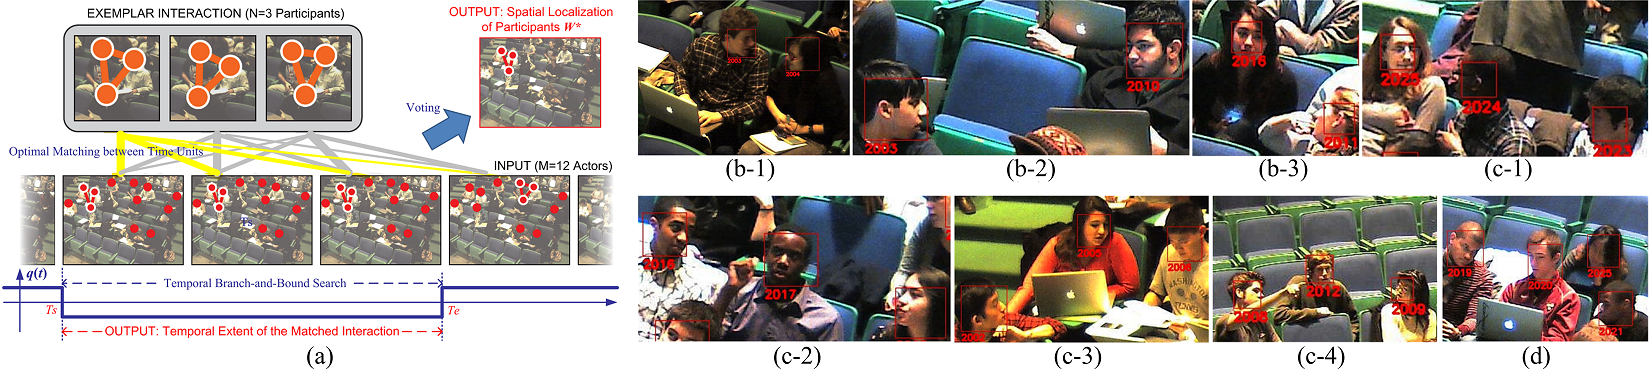
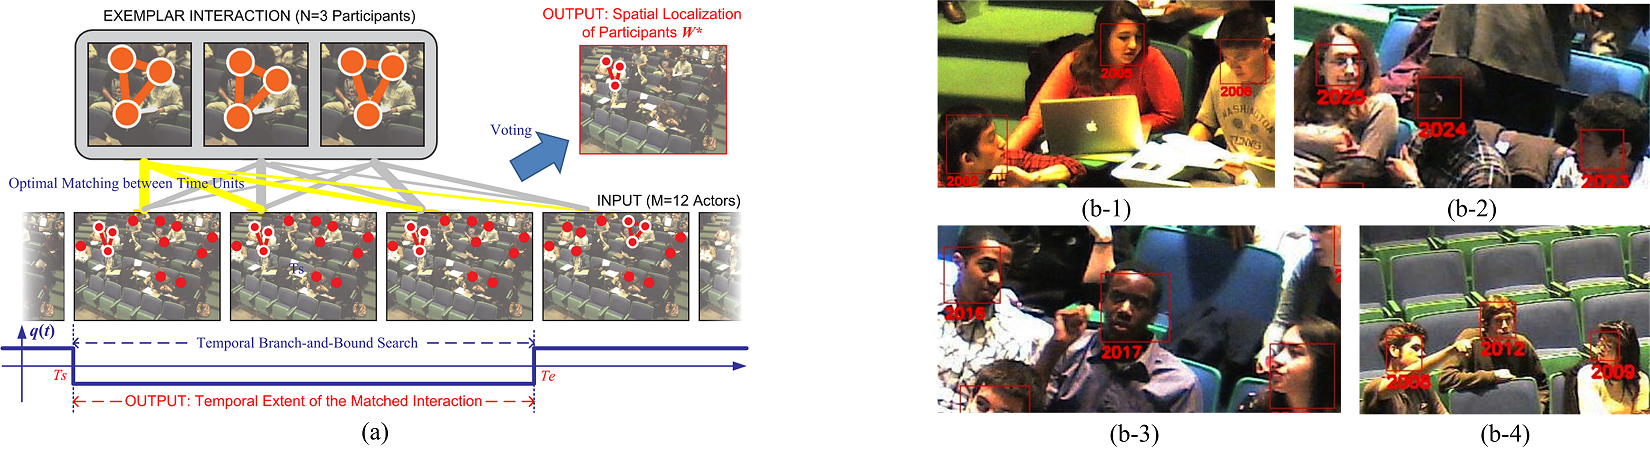
0.5 page left

diff --git a/problem2.tex b/problem2.tex
@@ -12,17 +12,16 @@ We approach detection and recognition as a matching problem, depicted in the lef
 \includegraphics[width=\columnwidth]{diagram_dataset}
 \end{center}
 \vspace{-0.25in} \caption{\captionsize 
-Preliminary results of using the proposed representation in a detection+recognition system based on matching (a).(b-1)-(b-3): Examples of the three categories for two-person interactions; (c-1)-(c-4): Examples of the four categories for three-person interactions; (d) Example of the four-person interaction.\todd{Change this figure to show two rows of detection results (for 3-person interactions) on the right.} \label{fig:diagram_dataset}\afterfigspace}
+(a): Preliminary method of using the proposed representation in a detection+recognition system based on matching. (b-1)-(b-4): Examples of the four categories for three-person interactions.}\label{fig:diagram_dataset}\afterfigspace
 \end{figure}
 
-To deal with these various sources of noise and outliers, we propose an approach based on voting. Each frame of the exemplar is separately compared to each frame of the long input video, and for each comparison we find the optimal partial matching between the $N$ exemplar participants and the $M>N$ input tracks. Each frame-wise partial match is represented by an $N\times M$ binary matrix $W$ that has at most one non-zero entry in each row and column. Because our descriptor-ensembles include only unitary and pairwise descriptors, each partial match can be found efficiently using a convex quadratic program derived from the problem\todd{can we put a citation here relating this to some existing graph or shape matching}
+To deal with these various sources of noise and outliers, we propose an approach based on voting. Each frame of the exemplar is separately compared to each frame of the long input video, and for each comparison we find the optimal partial matching between the $N$ exemplar participants and the $M>N$ input tracks. Each frame-wise partial match is represented by an $N\times M$ binary matrix $W$ that has at most one non-zero entry in each row and column. Because our descriptor-ensembles include only unitary and pairwise descriptors, each partial match can be found efficiently using a quadratic program similar to the one used in shape matching \cite{Berg05shapematching}
 \begin{equation}\label{eq:partial-matching}
 \text{arg}\!\!\!\!\!\min_{W=\{w_{nm}\}} \sum_{nm}w_{nm}d_{I}(\mathbf{f}_{m}, \mathbf{f}_{n})+\!\!\!\sum_{nmn'm'}\!\!\!w_{nm}w_{n'm'}d_{P}(\mathbf{g}_{m,m'}, \mathbf{g}_{n,n'}),
 \end{equation}
 where $\{f_{n},g_{n,n'}\}$ is the collection of $N$ individual and $N\times (N-1)$ pairwise descriptors from one exemplar frame and $\{f_{m},g_{m,m'}\}$ are the $M$ and $M\times (M-1)$ individual and pairwise descriptors from one  frame of the input. We can explore many different ``atomic'' distances for comparing individual and pairwise descriptors, and so far we have experimented with one flexible and convenient choice based on Mahalanobis distance: $d_{I}(\mathbf{f}, \mathbf{f}')=(\mathbf{f}-\mathbf{f}')^{T}\Sigma_{I}(\mathbf{f}-\mathbf{f}')$ and $d_{P}(\mathbf{g}, \mathbf{g}')=(\mathbf{g}-\mathbf{g}')^{T}\Sigma_{P}(\mathbf{g}-\mathbf{g}')$ defined by data-optimized positive semi-definite matrices $\Sigma_{I}$ and $\Sigma_{P}$.
 
-Having computed all per-frame partial matches, we make a robust decision about the locations of the $N$ best-matching participants in the input video by accumulating weighted votes from these frame-wise matches, with each frame-wise match casting a vote in the discrete space of all possible $N\times M$ binary matching matrices. Then, once the best-matching $N$ participants have been identified, we have found that the temporal extent of their detected interaction can be found efficiently through a suitably-defined branch-and-bound temporal search inspired by techniques used in sliding-window-based object detection~\cite{}\todd{add citation from CVPR paper}.
-
+Having computed all per-frame partial matches, we make a robust decision about the locations of the $N$ best-matching participants in the input video by accumulating weighted votes from these frame-wise matches, with each frame-wise match casting a vote in the discrete space of all possible $N\times M$ binary matching matrices. Once the best-matching $N$ participants have been identified, we have found that the temporal extent of the interaction can be found efficiently through a suitably-defined branch-and-bound temporal search inspired by techniques used in object detection~\cite{Lampert}.
 %\todd{Working here}. To formally describe task consider the fact that if one of the $M$ targets is regarded as a participant in an interaction as exemplified by the exemplar $\mathcal{D}$, its behavior should properly match to the behavior of one of the $N$ individuals in the exemplar $\mathcal{D}$. Therefore, we use a $N\times M$ binary matrix $W=[w_{nm}]\in\{0,1\}^{N\times M}$ to formally represent the participant identification, where $w_{nm}=1$ means that the $n$th exemplar individual is matched to the $m$th input target and $w_{nm}=0$ means unmatched targets. For unambiguous matching, we expect each individual in the exemplar to find its unique partner target in the input. This implies that $\sum_{m}w_{nm}=1, \forall n$ and $\sum_{n}w_{nm}\leq 1, \forall m$, \textit{i.e.}, $W\mathbf{1}=\mathbf{1}$ and $\mathbf{1}^{T}W\leq\mathbf{1}^{T}$. Denote $\mathcal{W}\triangleq\{W\in\{0,1\}^{N\times M}| W\mathbf{1}=\mathbf{1}, \mathbf{1}^{T}W\leq\mathbf{1}^{T}\}$, and our former task is essentially to find $W^{*}\in\mathcal{W}$, which encodes the best matching between the input $\mathcal{Q}$ and the exemplar $\mathcal{D}$. To formally describe task 2) is straightforward: We simply look for the starting time $T_{s}$ and ending time $T_{e}$, $1\le T_{s}<T_{e}\le T$, such that the interactive pattern of input $\mathcal{Q}$ during $[T_{s}, T_{e}]$ demonstrates the best similarity with the exemplar $\mathcal{D}$.
 
 
@@ -47,7 +46,7 @@ We have evaluated this approach using a subset of the Harvard Interactive Classr
 \vspace{-3.9mm}
 \includegraphics[width=2.4in]{ROC_s}
 \end{wrapfigure}
- of 112 distinct three-person discussions, and we separated these into four semantically-meaningful categories (e.g., three sitting in a row with two facing left vs. two in front and one behind). The annotated interactions range from a few seconds to tens of seconds in length, and detecting and recognizing them is a challenge because the number of by-standers is much larger than the number of participants ($M$ is between 10 and 20 while $N=3$), video quality is limited (low light, less than 15fps), and the visual cues for interaction are quite subtle. Detection results obtained using a leave-one-session-out evaluation scheme are shown in the ROC curves at right, with various parts of the system being isolated, leaving only individual $\mathbf{f}$ or pairwise $\mathbf{g}$ descriptors, and atomic distance matrices $\Sigma_{I}$, $\Sigma_{P}$ set to identity instead of being data-optimized as will be described in Section~\ref{sec:actlearn}. These results suggest that our preliminary system approach works well, and its performance and flexibility are further supported by tests showing that it provides state-of-the-art detection and recognition results on existing interaction datasets involving both humans~\cite{UTdata} and mice~\cite{}\todd{add caltech mice citation here; should we add 1-2 performance numbers to this sentence to make it more convincing?}.
+ of 112 distinct three-person discussions, and we separated these into four semantically-meaningful categories (e.g., three sitting in a row with two facing left vs. two in front and one behind). The annotated interactions range from a few seconds to tens of seconds in length, and detecting and recognizing them is a challenge because the number of by-standers is much larger than the number of participants ($M$ is between 10 and 20 while $N=3$), video quality is limited (low light, less than 15fps), and the visual cues for interaction are quite subtle. Detection results obtained using a leave-one-session-out evaluation scheme are shown in the ROC curves at right, with various parts of the system being isolated, leaving only individual $\mathbf{f}$ or pairwise $\mathbf{g}$ descriptors, and atomic distance matrices $\Sigma_{I}$, $\Sigma_{P}$ set to identity instead of being data-optimized as will be described in Section~\ref{sec:actlearn}. These results suggest that our preliminary system approach works well, and its performance and flexibility are further supported by tests showing that it provides state-of-the-art detection and recognition results on existing interaction datasets involving both humans~\cite{UTdata} and mice~\cite{CRIM13}, exceeding the accuracy in~\cite{UTdata} by 21\% and exceeding the accuracy in \cite{CRIM13} by 8\%.
  
 While these early results are promising, they are only a small indication of what might be achieved. As part of the proposed activity, we will explore more sophisticated descriptor ensembles that allow, for example, larger cliques of relative descriptors and descriptors that are relative to the entire group. We will also explore measures of similarity that, instead of detection and recognition by matching, are well-suited for computing interaction saliency (i.e., interactions that are distinct from their space-time neighborhood) and for semi-supervised and unsupervised learning of categories (e.g., to automatically cluster the salient interactions discovered in a video collection).
 

diff --git a/relatedwork.tex b/relatedwork.tex
@@ -20,12 +20,12 @@ We will build on computer vision, sociology, and social network analysis. This s
 
 \boldstart{Existing tools from sociology and network analysis}
 
-\emph{1) Qualitative and quantitative sociology}. Despite of the lack of automation, sociology has been under investigations for decades \cite{Darwin,Thomkins,Goffman,Kendon1990,Ekman,Hoyle,Tannen}. Interactions and relations among socialized individuals can be studied qualitatively or quantitatively \cite{Goodwin2000,Goldin,Goodwin2007,Kendon2010}, while contemporary communication and internet enables analytical and statistical approaches that can be applied to new socializing modalities such as emails \cite{Eckmann} and mobile phones calls \cite{Onnela,Eagle}. Communities can be abstracted from various domains including education \cite{Scherr2009}, production \cite{Watts}, transportation \cite{Gonzalez},  as well as politics \cite{Iacus}. All together has shaped the interdisciplinary study on `computational social science' \cite{Lazer2009} and `social signal processing' \cite{Pantic}. These research will benefit socially-aware computer vision by providing socially-meaningful interaction categories to exploit, such as `f-formations' \cite{Kendon1990} which describes the spatial proximity among participants involved in a short-term interaction. Meanwhile, our proposed research on social interaction detection and discovery will allow learning of interaction categories in many new environments and for large group sizes over long periods, which is usually prohibitive for manual work adopted in current sociological studies.
+\emph{1) Qualitative and quantitative sociology}. Despite of the lack of automation, sociology has been under investigations for decades \cite{Darwin,Thomkins,Goffman,Kendon1990,Ekman,Hoyle,Tannen}. Interactions and relations among socialized individuals can be studied qualitatively or quantitatively \cite{Goodwin2000,Goldin,Goodwin2007,Kendon2010}, while contemporary communication and internet enables analytical and statistical approaches that can be applied to new socializing modalities such as emails \cite{Eckmann} and mobile phones calls \cite{Onnela,Eagle}. Communities can be abstracted from various domains including education \cite{Scherr2009}, production \cite{Watts}, transportation \cite{Gonzalez},  as well as politics \cite{Iacus}. All together has shaped the interdisciplinary study on `computational social science' \cite{Lazer2009} and `social signal processing' \cite{Pantic}. These research will benefit socially-aware computer vision by providing socially-meaningful interaction categories to exploit, such as `f-formations' \cite{Kendon1990} which describes the spatial proximity among participants involved in a short-term interaction. Meanwhile, our proposed research on social interaction detection and discovery will allow learning of interaction categories in new environments and for large group sizes over long periods, which is prohibitive for manual work adopted in current sociological studies.
 
 
 %%%%%%%%%%%%%%%%%%%%%%%%%%%%%%%%%%%%%%%%%
 
-\emph{2) Computational network models}. Probabilistic mechanisms for depicting the dynamics of a small-scale group are available in \cite{Basu:meeting,Dong,Brand:CHMM,Choudhury:MHMM,Pan:influence}, and our research also relates to graph cut \cite{Ng:spectral,Boykov:segmentation}, clustering \cite{Filippone:clustering,Xu:clustering}, and graph matching \cite{West:Graph,Caetano:graph}. Statistical network models, as well as a diversity of problems regarding learning and inference on graphs, are particularly useful in modeling a broad body of network phenomena (e.g., message propagation and small-world effect) and solving a diversity of network problems (e.g. link prediction and page recommendation). We refer the reader to \cite{Goldenberg,Kolacyzk,Snijders,Rossi} for comprehensive coverage of representative work on statistical models of networks. In particular, research has considered the `multi-view' network representation, where a view may refer to a type of low-level observation or source that characterizes the affinities between nodes, such as citations between papers or the similarity of the words/topics in two papers \cite{ChangB09,WangMM05}, and a view can also refer to a type of high-level social role or membership \cite{AiroldiBFX08,Kim12}. Missing links or nodes are common for realistic networks as accounted for by network completion \cite{Clauset,Guimera,HannekeX09,KimL11}, and new links will be emerging over time as studied by link prediction \cite{Goldberg,Liben-Nowell,TaskarWAK03}. A visually sensed social network must consider these conditions together and confront new challenges of inferring high-level relational semantics from high-dimensional multi-modal image features and missing/noisy data. These will be our proposed contribution in Section \ref{sec:vis2net}.
+\emph{2) Computational network models}. Probabilistic mechanisms for depicting the dynamics of a small-scale group are available in \cite{Basu:meeting,Dong,Choudhury:MHMM,Pan:influence}, and our research also relates to graph cut \cite{Ng:spectral,Boykov:segmentation}, clustering \cite{Filippone:clustering,Xu:clustering}, and graph matching \cite{West:Graph,Caetano:graph}. Statistical network models, as well as a diversity of problems regarding learning and inference on graphs, are particularly useful in modeling a broad body of network phenomena (e.g., message propagation and small-world effect) and solving a diversity of network problems (e.g. link prediction and page recommendation). We refer the reader to \cite{Goldenberg,Kolacyzk,Snijders,Rossi} for comprehensive coverage of representative work on statistical models of networks. In particular, research has considered the `multi-view' network representation, where a view may refer to a type of low-level observation or source that characterizes the affinities between nodes, such as citations between papers or the similarity of the words/topics in two papers \cite{ChangB09,WangMM05}, and a view can also refer to a type of high-level social role or membership \cite{AiroldiBFX08,Kim12}. Missing links or nodes are common for realistic networks as accounted for by network completion \cite{Clauset,Guimera,HannekeX09,KimL11}, and new links will be emerging over time as studied by link prediction \cite{Goldberg,Liben-Nowell,TaskarWAK03}. A visually sensed social network must consider these conditions together and confront new challenges of inferring high-level relational semantics from high-dimensional multi-modal image features and missing/noisy data. These will be our proposed contribution in Section \ref{sec:vis2net}.
 
 
 %%%%%%%%%%%%%%%%%%%%%%%%%%%%%%%%%%%%%%%%%

diff --git a/problem1.tex b/problem1.tex
@@ -45,9 +45,9 @@ In order to recover social information from image data, we propose a broad set o
 
 At the most basic level, learning and detecting interaction categories requires inventing two things: 1) a computational representation of interactions; and 2) a recipe for measuring the similarity (or distance) between any two interactions. In developing these two, we have four desiderata. First, they must be discriminative, meaning that the similarity between instances from distinct categories is low while that for instances from the same category is high. Second, they must be insensitive to distractors, such as changes in viewpoint, participant identities, the temporal extent of the interaction, and the rate of progression within the interaction. Third, they must be robust and inexpensive so that we can automatically and efficiently process large image collections and long videos of large social gatherings. Fourth and finally, they must be flexible in the sense of being able to automatically exploit the varying levels of interaction information available in different types of input, from low-resolution surveillance video to high-resolution videos captured in small meetings.
 
-These desiderata motivate us to abandon existing approaches based on coupled hidden Markov models (coupled HMMs)~\cite{}\todd{get citations from the ALT proposal}. These approaches are inspired by speech analysis and attempt to model an interaction as an explicit \emph{multi-thread event}~\cite{}\todd{get citations from the ALT proposal} comprised of two or more single-thread events (i.e., two or more temporal sequences of per-person atomic actions) that are interconnected in time. These approaches can theoretically provide very robust detection and recognition of interactions, but they before they can be applied one must optimize for each interaction category both the connectivity of the coupled HMM and its parameters. This is a daunting task that would seem to require hundreds of labeled training samples for each category.
+These desiderata motivate us to abandon existing approaches based on coupled hidden Markov models (coupled HMMs)~\cite{Brand:CHMM}. These approaches are inspired by speech analysis and attempt to model an interaction as an explicit \emph{multi-thread event}~\cite{Hongeng:act} comprised of two or more single-thread events (i.e., two or more temporal sequences of per-person atomic actions) that are interconnected in time. These approaches can theoretically provide very robust detection and recognition of interactions, but they before they can be applied one must optimize for each interaction category both the connectivity of the coupled HMM and its parameters. This is a daunting task that would seem to require hundreds of labeled training samples for each category.
 
-We propose to develop a new class of representations for social interactions that are better-suited to data-driven analysis, including use of techniques like domain adaptation, active learning, semi-supervised learning, and unsupervised learning, which can help reduce the number of training samples to enable widespread use. Our representations are based on ensembles of two types of time-varying descriptors: 1) per-agent descriptors that encode the appearance and/or motion of each agent; and 2) relative pairwise descriptors that encode the appearance and/or motion of each agent relative to another. In the simplest case, an instance of an interaction spanning $T$ time units (frames) and containing $M$ (possibly noisy and fragmented) space-time tracks of agents---these could be centroid locations, bounding boxes, silhouettes, etc.---is simply represented by the ensemble $\{\mathbf{f}_{m,t},\mathbf{g}_{m,m',t}\}$ of $M\times T$ per-agent descriptors $\mathbf{f}_{m,t}$ and $M\times (M-1)\times T$ per-pair descriptors $\mathbf{g}_{m,m',t}$. Computing the similarity between any two interactions amounts to comparing their descriptor-ensembles, and detecting an interaction category in a long video of a larger social gather amounts to searching through space and time for ensembles that are similar to one or more exemplars in that category. 
+We propose to develop a new class of representations for social interactions that are better-suited to data-driven analysis, including use of techniques like domain adaptation, active learning, semi-supervised learning, and unsupervised learning, which can help reduce the number of training samples to enable widespread use. Our representations are based on ensembles of two types of time-varying descriptors: 1) per-agent descriptors that encode the appearance and/or motion of each agent; and 2) relative pairwise descriptors that encode the appearance and/or motion of each agent relative to another. In the simplest case, an instance of an interaction spanning $T$ time units (frames) and containing $M$ (possibly noisy and fragmented) space-time tracks of agents---these could be centroid locations, bounding boxes, silhouettes, etc.---is simply represented by the ensemble $\{\mathbf{f}_{m,t},\mathbf{g}_{m,m',t}\}$ of $M\times T$ per-agent descriptors $\mathbf{f}_{m,t}$ and $M\times (M-1)\times T$ per-pair descriptors $\mathbf{g}_{m,m',t}$. Computing the similarity between any two interactions amounts to comparing two ensembles, and detecting an interaction category in a long video of a larger social gather amounts to searching through space and time for ensembles that are similar to one or more exemplars in that category. 
 
 Our ensemble-based approach has the advantage of avoiding the explicit semantic description of social interactions, which is important when an interaction category cannot easily be broken down according to any pre-defined grammar, or when one lacks the vocabulary to precisely describe the coupled sequences of atomic events that comprise it. It is flexible because the dimension and form of the descriptors $\mathbf{f}$ and $\mathbf{g}$ can be whatever is appropriate for the setting in question, from centroid position and velocity computed from low-resolution surveillance video to more sophisticated descriptors based on space-time interest points, histograms of flow, body pose, expressions, gestures, or higher-level individual action categories. Finally, as we will describe in the remainder of this section, it can be readily combined with matching techniques for comparisons that are insensitive to distractors, allowing applications from learning to detection and recognition.
 
